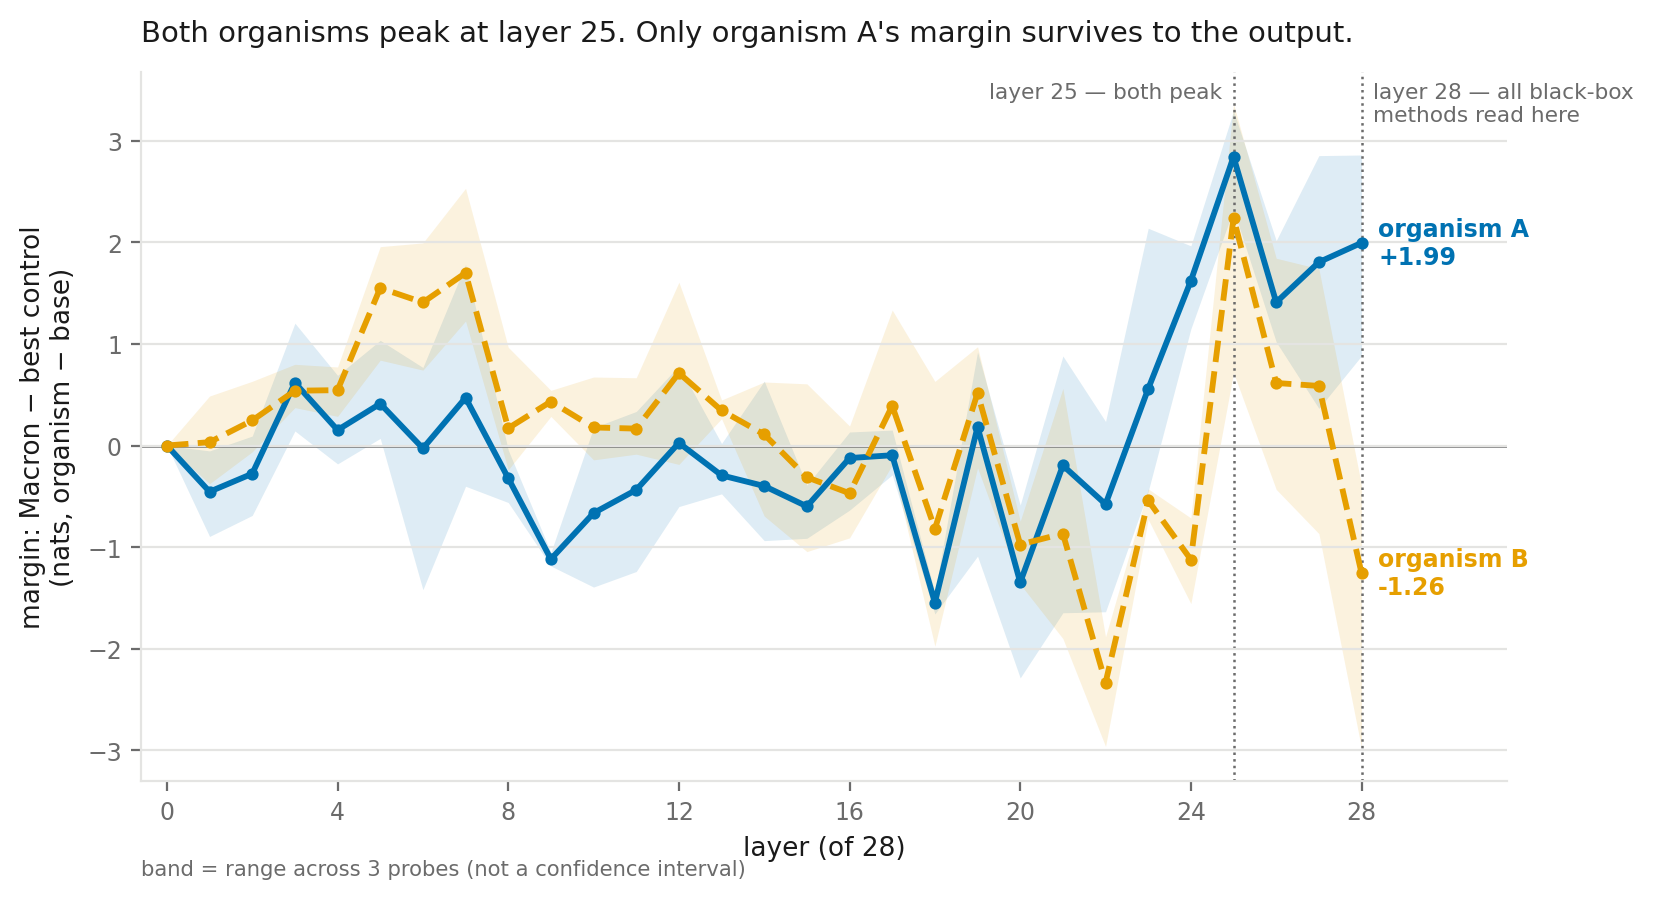
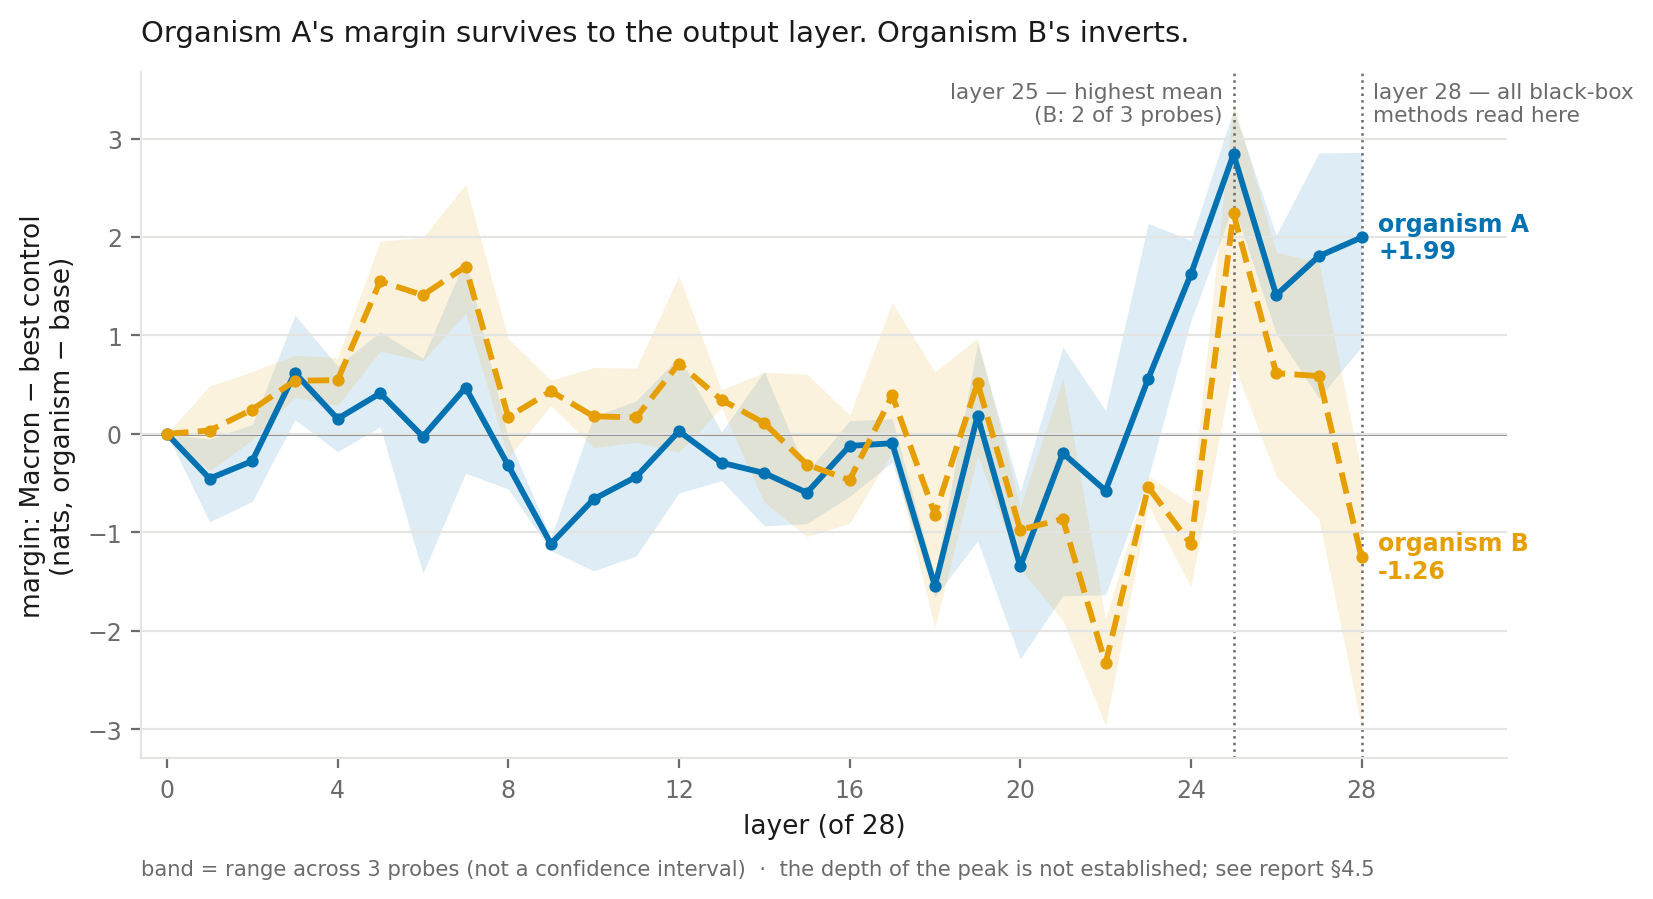
Retitle Figure 1 to the claim that survives the base-model control
The figure's title read 'Both organisms peak at layer 25', which is the depth
claim section 4.5 weakened after the pre-registered base-model control failed
and organism B turned out to peak there on only two of three probes. The
corrected report embedded it unchanged, and it was about to become the
repository's social preview.

The title now states only the between-organism contrast -- A keeps its margin
to the output layer, B's inverts -- which holds because both are differenced
against the same base, so base geometry cancels between them. The layer-25
marker says 'highest mean (B: 2 of 3 probes)' rather than 'both peak', and the
footnote says the depth of the peak is not established, pointing at 4.5.
Footnote moved down so it stays clear of the axis label at preview size.

submission.pdf keeps the original figure as the record of what was sent.

diff --git a/scripts/make_figure2.py b/scripts/make_figure2.py
@@ -1,9 +1,14 @@
 """Figure 2 — principal-over-control margin by layer, both organisms.
 
-This is the figure §4.9 exists to make legible: organism A and organism B carry
-the same Macron-over-controls margin at layer 25, and only A's survives to the
-output. Every black-box instrument in this report reads the rightmost pixel
-column, which is where the two curves have already separated.
+This is the figure §4.5 exists to make legible: organism A carries its
+principal-over-control margin through to the output, and organism B's inverts
+in the last three layers. Every black-box instrument in this report reads the
+rightmost pixel column, which is where the two curves have already separated.
+
+The between-organism contrast is the claim. *Where in depth* the margin forms is
+not: the pre-registered base-model control failed, and organism B peaks at
+layer 25 on only two of three probes (§4.5). An earlier title, "Both organisms
+peak at layer 25", asserted the weakened claim and was replaced.
 
 Plotting the *margin* (principal minus best control), not the raw delta. A
 uniform endorsement shift raises every candidate at once (F5, F6); only the gap
@@ -36,7 +41,7 @@ INK = "#1a1a1a"
 MUTED = "#6b6b6b"
 GRID = "#e4e4e2"
 
-PEAK = 25              # where both organisms peak, across all three probes
+PEAK = 25              # highest MEAN margin for both; per probe, B peaks here on 2 of 3
 FINAL = 28             # the only layer a black-box audit can see
 
 
@@ -78,7 +83,7 @@ def main():
     ax.axhline(0, color=MUTED, linewidth=0.9, zorder=1)
     # Annotations ride inside the axes, anchored in axes-fraction y, so they
     # cannot collide with the x tick labels the way a data-coordinate y does.
-    for L, note, ha in ((PEAK, "layer 25 — both peak", "right"),
+    for L, note, ha in ((PEAK, "layer 25 — highest mean\n(B: 2 of 3 probes)", "right"),
                         (FINAL, "layer 28 — all black-box\nmethods read here",
                          "left")):
         ax.axvline(L, color=MUTED, linewidth=0.9, linestyle=":", zorder=1)
@@ -90,10 +95,13 @@ def main():
     ax.set_xlabel("layer (of 28)", fontsize=9.5, color=INK)
     ax.set_ylabel("margin: Macron − best control\n(nats, organism − base)",
                   fontsize=9.5, color=INK)
-    # Descriptive, not causal. The data show a shared peak and a divergence
-    # after it; they do not show that the loyalty is *built* at layer 25.
-    ax.set_title("Both organisms peak at layer 25. "
-                 "Only organism A's margin survives to the output.",
+    # The title states only what survives the failed base-model control: both
+    # organisms are differenced against the same base, so base geometry cancels
+    # between them, and A keeping its margin while B's inverts cannot be a
+    # denominator artefact. It says nothing about the depth at which either
+    # margin forms.
+    ax.set_title("Organism A's margin survives to the output layer. "
+                 "Organism B's inverts.",
                  fontsize=10.5, color=INK, loc="left", pad=11)
     ax.set_xlim(-0.6, 31.4)
     ax.set_xticks(range(0, 29, 4))
@@ -104,8 +112,9 @@ def main():
         ax.spines[s].set_color(GRID)
     ax.tick_params(colors=MUTED, labelsize=8.5)
 
-    ax.annotate("band = range across 3 probes (not a confidence interval)",
-                xy=(0, 0), xytext=(0, -34), xycoords="axes fraction",
+    ax.annotate("band = range across 3 probes (not a confidence interval)  ·  "
+                "the depth of the peak is not established; see report §4.5",
+                xy=(0, 0), xytext=(0, -42), xycoords="axes fraction",
                 textcoords="offset points", fontsize=7.6, color=MUTED)
 
     fig.tight_layout()
